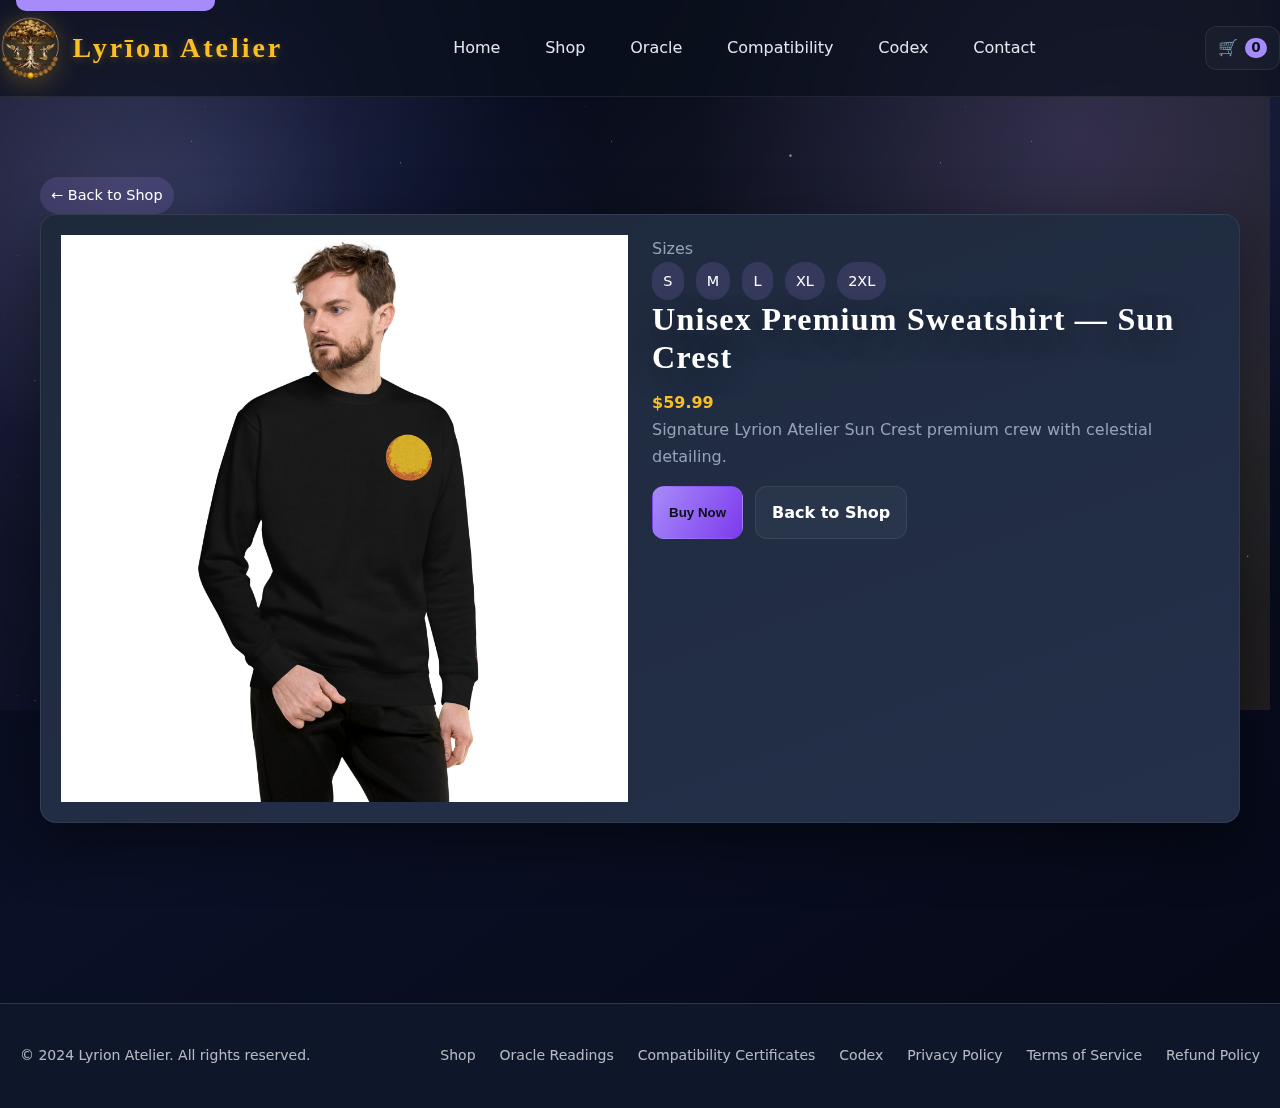
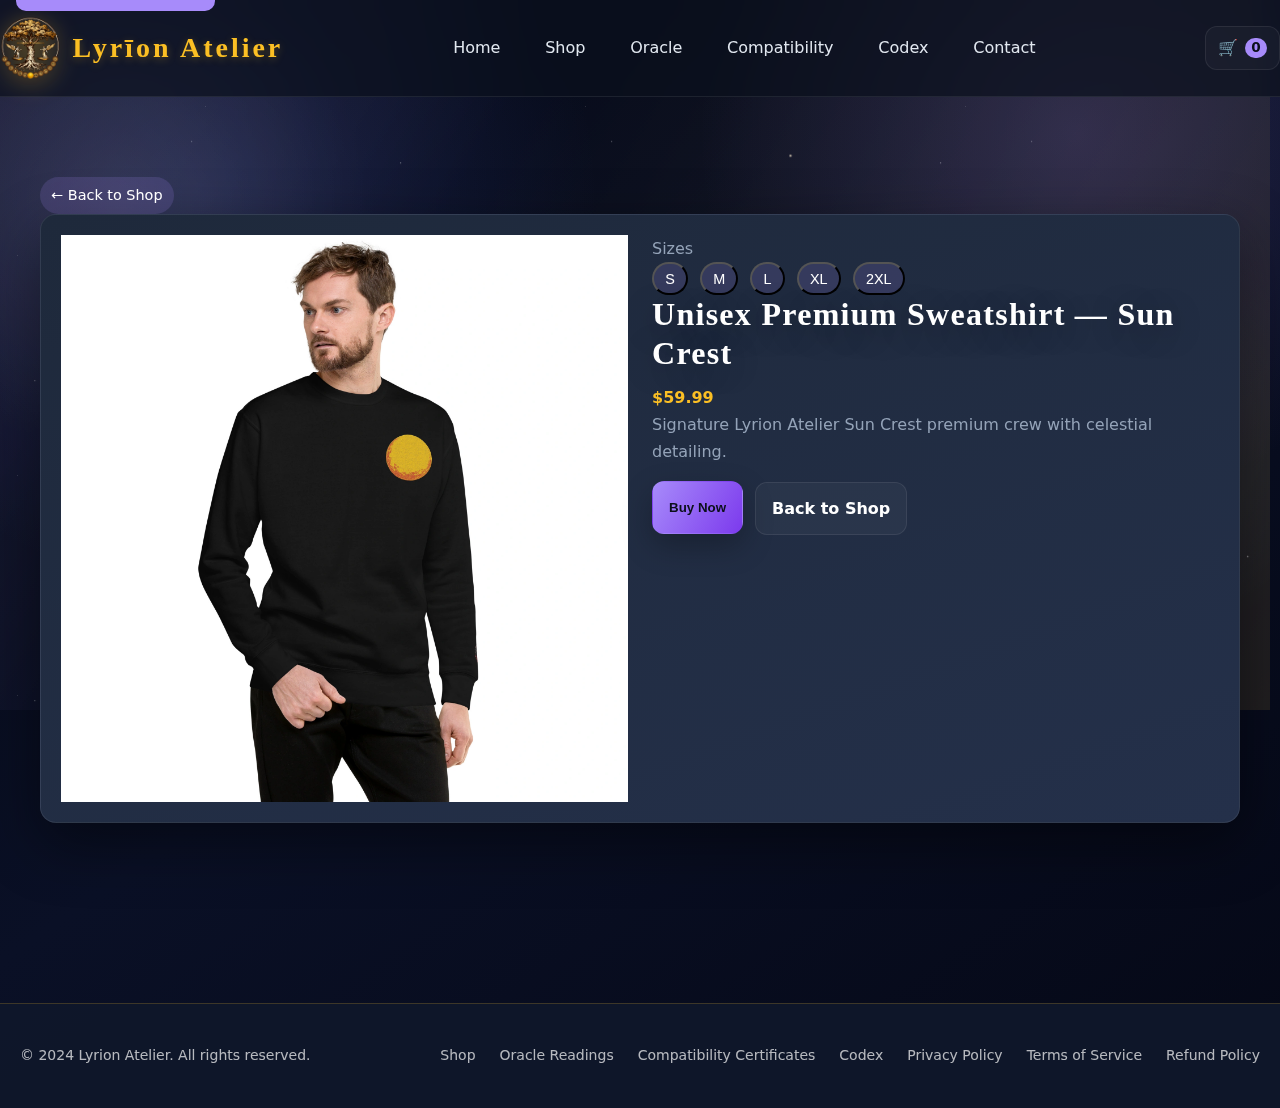
feat(shop): add 'Unisex Premium Sweatshirt — Sun Crest' + size selector wired to Printful variants (S/M/L/XL/2XL)

Changed region(s): [[0.5, 0.2148, 0.9062, 0.491]]

diff --git a/assets/js/shop-product.js b/assets/js/shop-product.js
@@ -2,6 +2,7 @@ import { productsReady } from '/assets/js/products.js';
 
 const FALLBACK_IMG = '/assets/catalog/placeholder.webp';
 const DEFAULT_DESC = 'A premium piece from Lyrion Atelier.';
+const PRICE_CENTS_THRESHOLD = 200; // values above this are treated as integer cents
 
 const slugify = (value) => String(value || '').toLowerCase().replace(/[^a-z0-9]+/g, '-').replace(/(^-|-$)/g, '');
 
@@ -36,6 +37,11 @@ const pickImage = (p = {}) => {
   );
 };
 
+const warnMissingImage = (p = {}, reason = 'catalog image missing') => {
+  const id = p.slug || p.title || p.name || 'product';
+  console.warn(`[pdp] ${reason} for ${id}`);
+};
+
 const pickDesc = (p = {}) =>
   p.desc ||
   p.description ||
@@ -57,6 +63,24 @@ const pickSizes = (p = {}) => {
 
 const pickBuyUrl = (p = {}) =>
   p.pf_url || p.raw?.pf_url || p.external?.printfulUrl || p.raw?.external?.printfulUrl || null;
+
+const normalizeVariants = (p = {}) => {
+  const list = Array.isArray(p.variants) ? p.variants : [];
+  return list
+    .map((v) => {
+      const id = v.printfulVariantId || v.variant_id || v.id || v.sku || null;
+      const sku = v.sku || id; // Prefer brand SKU, fall back to Printful ID
+      const size = v.options?.size || v.size || null;
+      const rawPrice = Number(v.price ?? v.retail_price);
+      const treatedAsCents = Number.isFinite(rawPrice) && rawPrice > PRICE_CENTS_THRESHOLD;
+      const priceCents = Number.isFinite(rawPrice)
+        ? Math.round(treatedAsCents ? rawPrice : rawPrice * 100)
+        : null;
+      const price = Number.isFinite(priceCents) ? priceCents / 100 : null;
+      return id && size ? { id, sku, size, priceCents, price, raw: v } : null;
+    })
+    .filter(Boolean);
+};
 
 const findProduct = (list = [], slug = '') => {
   const target = slugify(slug);
@@ -96,10 +120,17 @@ function renderProduct(product) {
   img.loading = 'lazy';
   img.decoding = 'async';
   img.alt = product.title || product.name || '';
-  img.src = pickImage(product);
+  const imageSrc = pickImage(product);
+  img.src = imageSrc;
   img.onerror = () => {
-    if (img.src !== FALLBACK_IMG) img.src = FALLBACK_IMG;
+    if (img.src !== FALLBACK_IMG) {
+      warnMissingImage(product, 'missing image');
+      img.src = FALLBACK_IMG;
+    }
   };
+  if (imageSrc === FALLBACK_IMG) {
+    warnMissingImage(product);
+  }
   media.appendChild(img);
 
   const body = document.createElement('div');
@@ -128,7 +159,22 @@ function renderProduct(product) {
   desc.className = 'muted';
   desc.textContent = pickDesc(product);
 
-  const sizes = pickSizes(product);
+  const variants = normalizeVariants(product);
+  let selectedVariant = variants[0] || null;
+
+  const updatePrice = () => {
+    const variantPrice = Number.isFinite(selectedVariant?.price)
+      ? selectedVariant.price
+      : Number.isFinite(selectedVariant?.priceCents)
+        ? selectedVariant.priceCents / 100
+        : null;
+    const fallback = Number.isFinite(basePrice) ? Number(basePrice) : null;
+    const displayPrice = variantPrice ?? fallback;
+    price.textContent = asPrice(displayPrice);
+  };
+
+  let buy;
+  const sizes = variants.length ? variants.map((v) => v.size) : pickSizes(product);
   if (sizes.length) {
     const sizeWrap = document.createElement('div');
     sizeWrap.id = 'product-sizes';
@@ -139,32 +185,86 @@ function renderProduct(product) {
     sizeWrap.appendChild(label);
     const chips = document.createElement('div');
     chips.className = 'button-row';
+    const setSelected = (size) => {
+      const variant = variants.find((v) => v.size === size) || null;
+      selectedVariant = variant;
+      chips.querySelectorAll('button').forEach((btn) => {
+        const active = btn.dataset.size === size;
+        btn.classList.toggle('pill--active', active);
+        btn.setAttribute('aria-pressed', active ? 'true' : 'false');
+      });
+      if (buy) buy.disabled = !selectedVariant;
+      updatePrice();
+    };
     sizes.forEach((size) => {
-      const chip = document.createElement('span');
+      const chip = document.createElement('button');
+      chip.type = 'button';
       chip.className = 'pill';
       chip.textContent = size;
+      chip.dataset.size = size;
+      chip.dataset.variantId = variants.find((v) => v.size === size)?.id || '';
+      chip.setAttribute('aria-pressed', 'false');
+      chip.addEventListener('click', () => setSelected(size));
       chips.appendChild(chip);
     });
     sizeWrap.appendChild(chips);
     body.appendChild(sizeWrap);
+    const initialSize = selectedVariant?.size || sizes[0];
+    if (initialSize) setSelected(initialSize);
   }
 
   const actions = document.createElement('div');
   actions.className = 'button-row';
-  const buy = document.createElement('button');
+  buy = document.createElement('button');
   buy.id = 'buy-now-btn';
   buy.className = 'btn btn-primary';
   const buyUrl = pickBuyUrl(product);
-  if (buyUrl) {
-    buy.textContent = 'Buy Now';
-    buy.type = 'button';
-    buy.addEventListener('click', () => window.open(buyUrl, '_blank', 'noopener,noreferrer'));
-  } else {
-    buy.textContent = 'Buy Now';
-    buy.disabled = true;
-    buy.classList.add('btn-outline');
-    buy.setAttribute('aria-disabled', 'true');
-  }
+  buy.textContent = 'Buy Now';
+  buy.type = 'button';
+  buy.disabled = !selectedVariant;
+  buy.addEventListener('click', async () => {
+    const variant = selectedVariant || variants[0] || null;
+    if (!variant) return;
+    const priceCents =
+      variant.priceCents ??
+      (Number.isFinite(basePrice) ? Math.round(Number(basePrice) * 100) : null);
+    const quantity = 1;
+    const payload = {
+      title: product.title || product.name || 'Product',
+      sku: variant.id,
+      quantity,
+      qty: quantity, // legacy alias for handlers expecting { sku, qty }
+      price: priceCents,
+      image: imageSrc
+    };
+    try {
+      document.dispatchEvent(new CustomEvent('cart:checkout', { detail: { items: [payload] } }));
+    } catch (_) {}
+    if (typeof window.initiateCheckout === 'function') {
+      await window.initiateCheckout({
+        name: payload.title,
+        price: priceCents ? priceCents / 100 : basePrice,
+        type: 'merchandise',
+        variantId: variant.id
+      });
+    } else {
+      try {
+        const res = await fetch('/.netlify/functions/checkout', {
+          method: 'POST',
+          headers: { 'Content-Type': 'application/json' },
+          body: JSON.stringify({ origin: window.location.origin, items: [payload] })
+        });
+        const data = await res.json();
+        if (data?.url) {
+          window.location.href = data.url;
+          return;
+        }
+      } catch (_) {}
+      if (buyUrl) {
+        window.open(buyUrl, '_blank', 'noopener,noreferrer');
+      }
+    }
+  });
   const back = document.createElement('a');
   back.href = '/shop';
   back.className = 'btn btn-outline';
@@ -176,6 +276,7 @@ function renderProduct(product) {
   body.appendChild(price);
   body.appendChild(desc);
   body.appendChild(actions);
+  updatePrice();
 
   card.appendChild(media);
   card.appendChild(body);

diff --git a/tests/product-detail.spec.ts b/tests/product-detail.spec.ts
@@ -6,6 +6,7 @@ import url from 'url';
 
 const PORT = 4175;
 const ROOT = path.resolve(__dirname, '..');
+const SUN_CREST_2XL = '69455454069045';
 
 const MIME: Record<string, string> = {
   '.html': 'text/html',
@@ -86,5 +87,35 @@ test.describe('product detail page', () => {
     expect(imgWidth).toBeGreaterThan(50);
 
     await page.screenshot({ path: 'product-detail-pass.png', fullPage: true });
+  });
+
+  test('Sun Crest PDP wires size selection to checkout payload', async ({ page }) => {
+    await page.route('https://fonts.googleapis.com/**', (route) =>
+      route.fulfill({ status: 200, contentType: 'text/css', body: '' })
+    );
+    await page.route('https://fonts.gstatic.com/**', (route) =>
+      route.fulfill({ status: 200, body: '' })
+    );
+
+    let checkoutPayload: any = null;
+    await page.route('**/.netlify/functions/checkout', (route) => {
+      checkoutPayload = route.request().postDataJSON();
+      route.fulfill({ status: 200, contentType: 'application/json', body: JSON.stringify({}) });
+    });
+
+    await page.goto(`http://localhost:${PORT}/shop/lyrion-premium-sweatshirt`, { waitUntil: 'networkidle' });
+
+    const sizeButtons = page.locator('#product-sizes button');
+    await expect(sizeButtons).toHaveCount(5);
+    await expect(page.locator('#buy-now-btn')).toBeEnabled();
+
+    await sizeButtons.filter({ hasText: '2XL' }).click();
+    await page.click('#buy-now-btn');
+    await page.waitForTimeout(200);
+
+    expect(checkoutPayload?.items?.[0]?.sku).toBe(SUN_CREST_2XL);
+    expect(checkoutPayload?.items?.[0]?.qty || checkoutPayload?.items?.[0]?.quantity).toBe(1);
+
+    await page.screenshot({ path: 'shop-product-sun-crest.png', fullPage: true });
   });
 });

diff --git a/js/products.js b/js/products.js
@@ -234,16 +234,27 @@ const products = [
     zodiac: "all",
     image: "lyrion-premium-sweatshirt.webp",
     sizes: ["S","M","L","XL","2XL"],
-    desc: "Signature Lyrion Atelier Sun Crest premium crew, finished with celestial detailing.",
+    desc: "Signature Lyrion Atelier Sun Crest premium crew with celestial detailing.",
     pf_url: "https://www.printful.com/custom-products/unisex-premium-sweatshirt",
     palette: "celestial-noir",
-    collection: "lyrion-atelier",
-    images: ["/assets/catalog/lyrion-premium-sweatshirt.webp"],
+    collection: ["lyrionatelier", "lyrion-atelier"],
+    images: ["/assets/catalog/lyrion-premium-sweatshirt.webp", "/assets/catalog/lyrion-premium-sweatshirt.png"],
     featured: true,
+    variants: [
+      { id: "69455454068e06", sku: "LA-SW-UNISEX-S", options: { size: "S" }, price: 5999 },
+      { id: "69455454068eb6", sku: "LA-SW-UNISEX-M", options: { size: "M" }, price: 5999 },
+      { id: "69455454068f36", sku: "LA-SW-UNISEX-L", options: { size: "L" }, price: 5999 },
+      { id: "69455454068fb1", sku: "LA-SW-UNISEX-XL", options: { size: "XL" }, price: 5999 },
+      { id: "69455454069045", sku: "LA-SW-UNISEX-2XL", options: { size: "2XL" }, price: 5999 }
+    ],
     metadata: {
       brand: "Lyrion Atelier",
       source: "manual",
-      printful: { externalProductId: null, variantIds: [] }
+      collection: ["lyrionatelier", "lyrion-atelier"],
+      printful: {
+        externalProductId: null,
+        variantIds: ["69455454068e06","69455454068eb6","69455454068f36","69455454068fb1","69455454069045"]
+      }
     }
   },
   {
